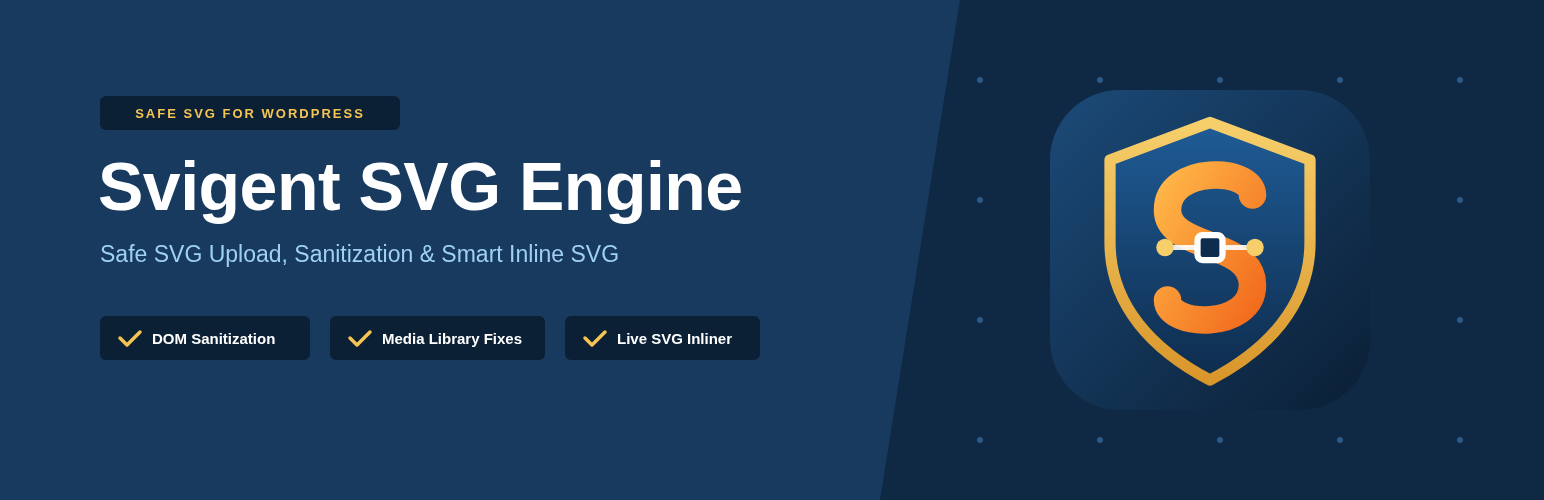
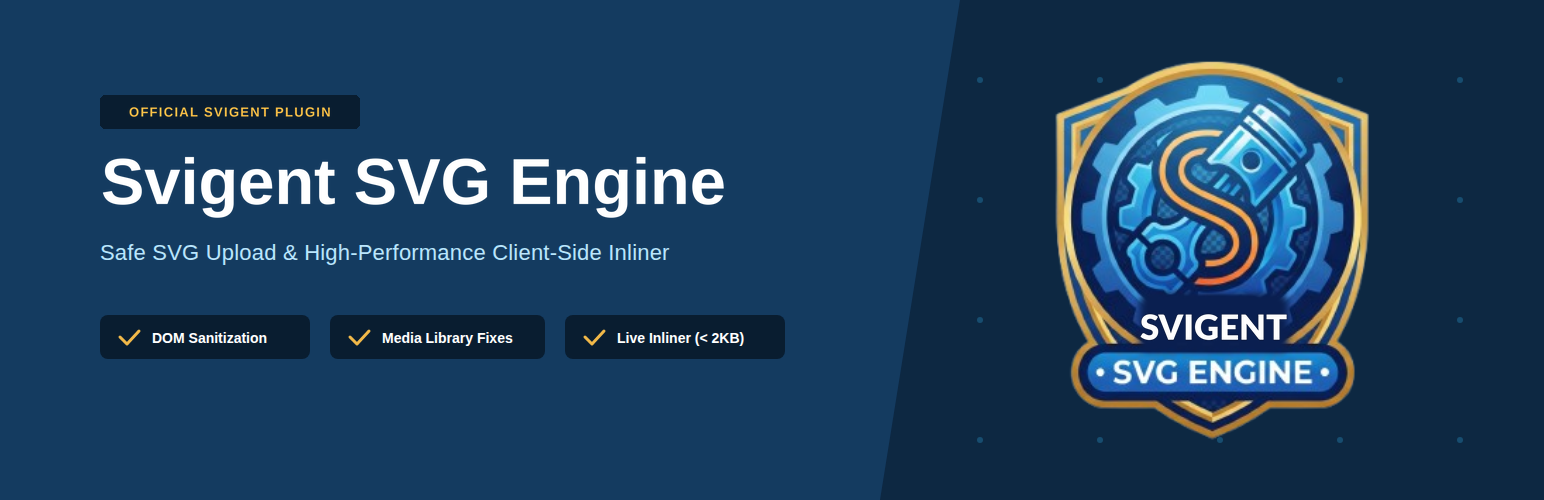
Restore original crest artwork with Svigent name, add author URI, and improve readme SEO

diff --git a/svigent-tools.php b/svigent-tools.php
@@ -1,12 +1,13 @@
 <?php
 /**
- * Plugin Name:       Svigent SVG Engine – Safe SVG Upload & Inline SVG
+ * Plugin Name:       Svigent SVG Engine
  * Plugin URI:        https://wordpress.org/plugins/svigent-tools/
  * Description:       Safe SVG Upload & Smart Inliner Engine. Enable safe SVG & SVGZ uploads with automated DOM sanitization, clean Media Library thumbnail previews, automatic dimension detection, and high-performance client-side inline rendering.
  * Version:           1.0.2
  * Requires at least: 6.0
  * Requires PHP:      7.4
  * Author:            Abinesh Selvarasu
+ * Author URI:        https://www.abineshspotlight.online
  * License:           GPL-2.0-or-later
  * License URI:       https://www.gnu.org/licenses/gpl-2.0.html
  * Text Domain:       svigent-tools

diff --git a/README.md b/README.md
@@ -1,11 +1,15 @@
 # Svigent SVG Engine
 
+[![WordPress Plugin Version](https://img.shields.io/wordpress/plugin/v/svigent-tools.svg)](https://wordpress.org/plugins/svigent-tools/)
+[![WordPress Plugin Rating](https://img.shields.io/wordpress/plugin/stars/svigent-tools.svg)](https://wordpress.org/plugins/svigent-tools/#reviews)
 [![Required WP Version](https://img.shields.io/badge/WordPress-6.0%2B-blue.svg)](https://wordpress.org)
 [![Required PHP Version](https://img.shields.io/badge/Requires%20PHP-7.4%2B-777bb4.svg)](https://php.net)
 [![GPLv2 License](https://img.shields.io/badge/License-GPLv2%2B-green.svg)](https://www.gnu.org/licenses/gpl-2.0.html)
 [![Plugin Check](https://img.shields.io/badge/Plugin%20Check-100%25%20Clean-brightgreen.svg)](https://wordpress.org/plugins/plugin-check/)
 
-A lightweight, modern, and secure WordPress plugin that enables SVG uploads and provides high-performance client-side inline rendering for vector graphics.
+Upload SVG files to WordPress safely. **Svigent SVG Engine** sanitizes every SVG and SVGZ upload, fixes Media Library previews, and turns SVG images into inline SVG you can style with CSS.
+
+**[Download Svigent SVG Engine from WordPress.org →](https://wordpress.org/plugins/svigent-tools/)**
 
 > **Development Repository**
 >
@@ -46,7 +50,7 @@ A lightweight, modern, and secure WordPress plugin that enables SVG uploads and 
 
 1. Clone or download the repository into your WordPress plugins directory:
    ```bash
-   git clone https://github.com/your-username/svigent-tools.git wp-content/plugins/svigent-tools
+   git clone https://github.com/abineshselvarasu/svg-plugin.git wp-content/plugins/svigent-tools
    ```
 2. Activate **Svigent SVG Engine** in **WordPress Admin → Plugins**.
 3. Go to **Settings → Svigent SVG Engine** to configure permissions and enable inlining.
@@ -65,3 +69,9 @@ A lightweight, modern, and secure WordPress plugin that enables SVG uploads and 
 ## License
 
 Svigent SVG Engine is open-source software licensed under the [GPL-2.0-or-later](https://www.gnu.org/licenses/gpl-2.0.html).
+
+---
+
+## Author
+
+Built by [Abinesh Selvarasu](https://www.abineshspotlight.online). Found a bug or have an idea? [Open an issue](https://github.com/abineshselvarasu/svg-plugin/issues) or ask on the [WordPress.org support forum](https://wordpress.org/support/plugin/svigent-tools/).
